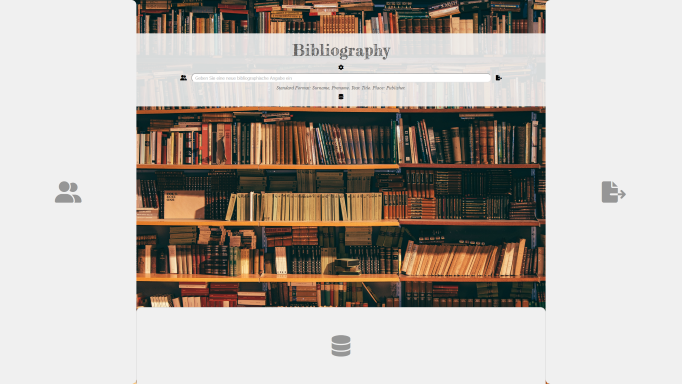
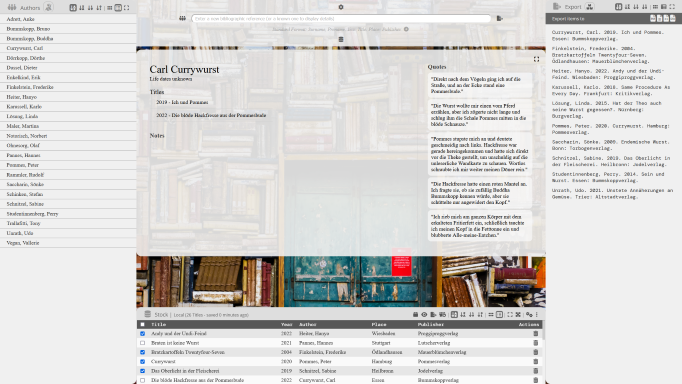
View of author details working, added new screenshot

diff --git a/index.js b/index.js
@@ -60,6 +60,7 @@ class Author {
     professorships;
     place;
     date_added;
+    books;
 
     constructor(surname, prename, options = {}) {
         this.uid = options.uid || uid();
@@ -74,8 +75,72 @@ class Author {
         this.prename = prename;
         this.date_added = options.date_added || new Date();
         this.tags = options.tags || [];
+        this.books = options.books || [];
 
         authors.set(this.surname + ', ' + this.prename, this);
+        localStorage.setItem('authors', JSON.stringify(Object.fromEntries(authors)));    
+    }
+
+    showDetails = () => {
+        console.log('HI! from showDetails!');
+        showAuthorDetailsDisplay();
+        this.fillBooksArray();
+        document.querySelector('#authorName').innerHTML = this.prename + ' ' + this.surname;
+        if (this.date_birth !== '' && this.date_death !== '') {
+            document.querySelector('#authorDates').innerHTML = this.date_birth + ' - ' + this.date_death;
+        } else if (this.date_birth !== '' && this.date_death === '') {
+            document.querySelector('#authorDates').innerHTML = 'Born ' + this.date_birth;
+        } else if (this.date_birth === '' && this.date_birth !== '') {
+            document.querySelector('#authorDates').innerHTML = 'Died ' + this.date_death;
+        } else {
+            document.querySelector('#authorDates').innerHTML = 'Life dates unknown';
+        }
+        let titlesDisplay = document.querySelector('#authorsBooksList');
+        titlesDisplay.innerHTML = '';
+
+        let authorQuotes = [];
+        this.books.forEach((book) => {
+            let newDiv = document.createElement('div');
+            let gotBook = books.get(book);
+            newDiv.classList.add('authorBookItem');
+            newDiv.innerHTML = gotBook.year + ' - ' + gotBook.title;
+            newDiv.addEventListener('click', gotBook.showDetails);
+            titlesDisplay.appendChild(newDiv);
+
+            gotBook.quotes.forEach((quote) => {
+                authorQuotes.push(quotes.get(quote).quote_text);
+            });
+        });
+
+        let quotesDisplay = document.querySelector('#authorQuotesList');
+        quotesDisplay.innerHTML = '';
+        authorQuotes.forEach((quote) => {
+            let newDiv = document.createElement('div');
+            newDiv.classList.add('quoteItem');
+            newDiv.innerHTML = '&quot;' + quote + '&quot;';
+            quotesDisplay.appendChild(newDiv);
+        });
+
+    }
+
+    fillBooksArray = () => {
+        console.log('HI! from fillBooks!');
+        let authoredBooks = Array.from(books.values()).filter((book) => {
+            if (book.author_prename === this.prename && book.author_surname === this.surname) {
+                return true;
+            } else {
+                return false;
+            }
+        });
+        console.log(authoredBooks);
+        authoredBooks.forEach((book) => {
+            this.books.push(book.title);
+        });
+        this.books = Array.from(new Set(this.books));
+        this.save();
+    }
+
+    save = () => {
         localStorage.setItem('authors', JSON.stringify(Object.fromEntries(authors)));    
     }
 }
@@ -159,7 +224,14 @@ class Book {
             document.querySelector('#detailSubtitle').innerHTML = '';
         }
         document.querySelector('#detailYear').textContent = this.year;
-        document.querySelector('#detailAuthor').textContent = 'by ' + this.author_prename + ' ' + this.author_surname;
+       
+        let newAuthor = document.createElement('div');
+        newAuthor.id = 'detailAuthor';
+        newAuthor.classList.add('detailAuthorLink');
+        newAuthor.addEventListener('click', authors.get(this.author_surname + ', ' + this.author_prename).showDetails);
+        newAuthor.textContent = 'by ' + this.author_prename + ' ' + this.author_surname;
+        document.querySelector('#detailAuthor').replaceWith(newAuthor);
+        
         document.querySelector('#detailPublisher').textContent = this.publisher_name;
         document.querySelector('#detailPlace').textContent = this.place;
         
@@ -1103,6 +1175,8 @@ function prepareForDetailsView() {
     let latestAdds = document.querySelector('#latestAdditions');
     let details = document.querySelector('#detailView');
 
+    document.querySelector('#authorView').style.display = 'none';
+
     mainInterface.style.marginTop = '0px';
     mainInterface.style.padding = '10px';
     
@@ -1115,9 +1189,9 @@ function prepareForDetailsView() {
     latestAdds.style.opacity = '0';
     latestAdds.style.visibility = 'collapse';
     
-    
     details.style.opacity = '1';
     details.style.visibility = 'visible';
+    details.style.display = 'block flex';
 }
 
 function purgeLocalStorage() {
@@ -1313,6 +1387,13 @@ function setStockOrderIcon() {
             document.querySelector('#stockPane-sortOrderAddedReverse').classList.add('selected');
             break;
     }
+}
+
+function showAuthorDetailsDisplay() {
+    document.querySelector('#detailView').style.display = 'none';
+    document.querySelector('#latestAdditions').style.display = 'none';
+    document.querySelector('#authorView').style.visibility = 'visible';
+    document.querySelector('#authorView').style.display = 'block flex';    
 }
 
 function showDBSetup() {
@@ -1872,6 +1953,7 @@ function updateAuthorsPane() {
     sortedAuthors.forEach(author => {
         let newDiv = document.createElement('div');
         newDiv.classList.add('authorsPaneItem');
+        newDiv.addEventListener('click', author[1].showDetails);
         newDiv.textContent = author[0];
         authorsPane.appendChild(newDiv);
     });

diff --git a/styles.css b/styles.css
@@ -130,6 +130,13 @@ td {
   width: 120px;
 }
 
+.authorBookItem {
+  padding: 10px 20px;
+  font-size: 85%;
+  border-bottom: 1px solid rgba(200, 200, 200, 0.7);
+  cursor: pointer;
+}
+
 .authorsPaneItem {
   padding: 5px 20px;
   border-bottom: 1px solid rgba(150, 150, 150, 1.0);
@@ -255,6 +262,10 @@ td {
 }
 
 .detailAction {
+  cursor: pointer;
+}
+
+.detailAuthorLink {
   cursor: pointer;
 }
 
@@ -717,6 +728,33 @@ td {
   transition: background-image 3s ease 3s;
 }
 
+#authorBooks {
+  margin-top: 20px;
+  font-size: 120%;
+}
+
+#authorDates {
+
+}
+
+#authorDetails {
+  display: flex;
+  flex-direction: column;
+  min-width: 300px;
+}
+
+#authorName {
+  font-size: 200%;
+}
+
+#authorNotes {
+  margin-top: 30px;
+}
+
+#authorPlace {
+
+}
+
 #authors {
   padding: 0px 0px;
   color: rgba(50, 50, 50, 1.0);
@@ -734,6 +772,18 @@ td {
   border-radius: 0 15px 15px 0;
   visibility: hidden;
   transition: opacity 0.8s ease, visibility 0.9s ease, top 1s ease, right 1s ease, bottom 1s ease, left 1s ease, height 1s ease, width 1s ease;
+}
+
+#authorTagsAndQuotes {
+  margin-left: auto;
+  min-width: 30%;
+  max-width: 300px;
+  padding-left: 30px;
+  border-left: 1px solid rgba(200, 200, 200, 0.7);
+}
+
+#authorView {
+  visibility: hidden;
 }
 
 #bookDetails {

diff --git a/index.html b/index.html
@@ -70,7 +70,20 @@
               <div id="authorName"></div>
               <div id="authorPlace"></div>
               <div id="authorDates"></div>
-              <div id="authorBooks"></div>
+              <div id="authorBooks">Titles
+                <div id="authorsBooksList"></div>
+              </div>
+              <div id="authorNotes">
+                <h3 class="detailSubheader">Notes</h3>
+                <div id="authorNotesList"></div>
+              </div>
+            </div>
+            <div id="authorTagsAndQuotes">
+              <div id="authorTags"></div>
+              <div id="authorQuotes">
+                <h3 class="detailSubheader">Quotes</h3>
+                <div id="authorQuotesList"></div>
+              </div>
             </div>
           </div>
           <i id="detailToggleFull" class="fa-solid fa-expand detailToggle"></i>
